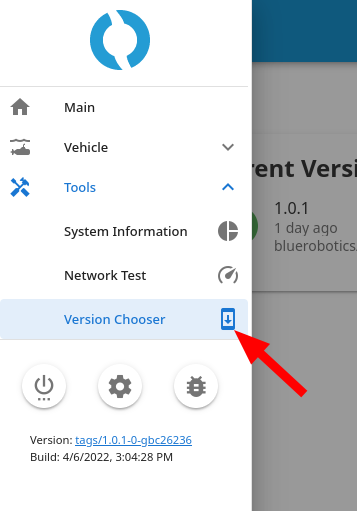
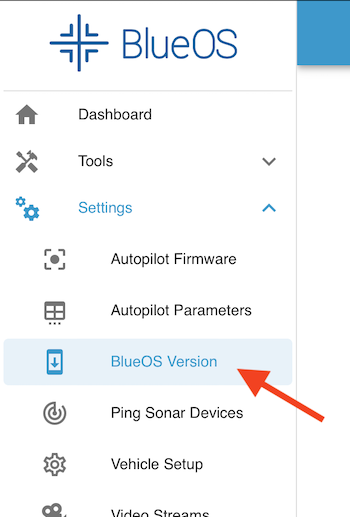
getting-started: update for interface changes

diff --git a/getting-started/index.md b/getting-started/index.md
@@ -1,7 +1,7 @@
 +++
 title = "Getting Started"
 description = "BlueOS getting started instructions."
-date = 2021-10-20T22:20:00+00:00
+date = 2023-02-23T23:15:00+11:00
 template = "docs/page.html"
 sort_by = "weight"
 weight = 20
@@ -18,23 +18,28 @@ top = false
 Your topside computer’s network configuration should be the same as for the previous Companion software.
 To configure it, you can follow our [network setup instructions](https://www.ardusub.com/quick-start/installing-companion.html#network-setup).
 
-## New Web Interface
+## Web Interface
 
-BlueOS is designed to be a modular collection of services, which generally each provide a REST API, documentation, and a development webpage.
-The web interface monitors the autopilot and other main software components, and also listens for and displays connections from other HTTP servers (on TCP ports) and docker containers, so you can keep your own integrations isolated from the normal BlueOS release/update cycle.
+BlueOS is designed as a modular collection of services, which are accessed and configured via a combined web interface.
+
+The web interface monitors the autopilot and other main software components. It also listens for and displays connections from other HTTP servers (on TCP ports), which allows extensions and custom integrations to provide an interface through BlueOS while remaining independent from the main BlueOS release/update cycle.
 
 ### Interface Access
 
-You can access BlueOS via the old IP address ([192.168.2.2](http://192.168.2.2/)) or via [blueos.local](http://blueos.local/), to connect with it via wifi, it's possible to use [blueos-wifi.local](http://blueos-wifi.local/).
+By default you can access BlueOS via the old IP address ([192.168.2.2](http://192.168.2.2/)) or via [blueos.local](http://blueos.local/).
+When BlueOS is connected to the same wifi network as your device you can also connect with it using [blueos-wifi.local](http://blueos-wifi.local/).
 
 ### Interface Features
 
 When you first open the web interface, you'll see a page that looks like this:
-<img src="main-page.png" width="650">
+{{ easy_image(src="../advanced-usage/interface-overview", width="600") }}
 
-Of particular note is the header, which contains:
-- the main hamburger menu (top left corner), for managing your flight controller and accessing some useful tools, and
-- health, wifi, network, and notification indicators (top right corner)
+As a brief overview,
+- the header contains system health indicators and notifications, and some network and display configuration options
+- the sidebar allows navigating between pages, and allows restarting, freeing up space, and reporting issues
+- most pages show their content within the BlueOS interface sections, but some extensions open as full pages in a separate tab
+
+For more details see the Advanced Usage [Interface Overview](../advanced-usage/#interface-overview) section.
 
 ## Updating / Releases
 
@@ -58,15 +63,15 @@ When starting out, it's important to connect to wifi so you can update to the la
 
 Now that your BlueOS has an internet connection, you can perform the update to the latest available version.
 
-1. Click on the hamburger menu
+1. Click on the hamburger menu (if the sidebar is not already open)
 
    ![Version Menu](version-menu.png)
-1. Under **tools**, select [**Version-Chooser**](../advanced-usage/#version-chooser)
+1. Under **Settings**, select [**BlueOS Version**](../advanced-usage/#blueos-version)
 
    ![Version Chooser](version-chooser.png)
 1. If you're already on the latest version, the right side of your Local Version will be blank. If not, you should see a blue **Update** button.
 
-   <img src="version-update.png" width="650">
+   <img src="../advanced-usage/version-chooser-simple.png" width="550">
 1. Once the update button is clicked the update process will run.
    Please wait until it finishes - it will automatically reload the webpage for you.
 
@@ -74,4 +79,4 @@ Now that your BlueOS has an internet connection, you can perform the update to t
 
 BlueOS is capable of configuring and streaming multiple cameras simultaneously. The first time it boots, it will automatically detect any connected H264-capable cameras and start streaming them. If not, make sure your camera is properly connected, and that BlueOS is on the latest available version. Reset settings and restart BlueOS if necessary.
 
-Additional information is available in the [Video](../advanced-usage/#video) section of the [Advanced Usage](../advanced-usage) page.
+Additional information is available in the Advanced Usage [Video Streams](../advanced-usage/#video-streams) section.
